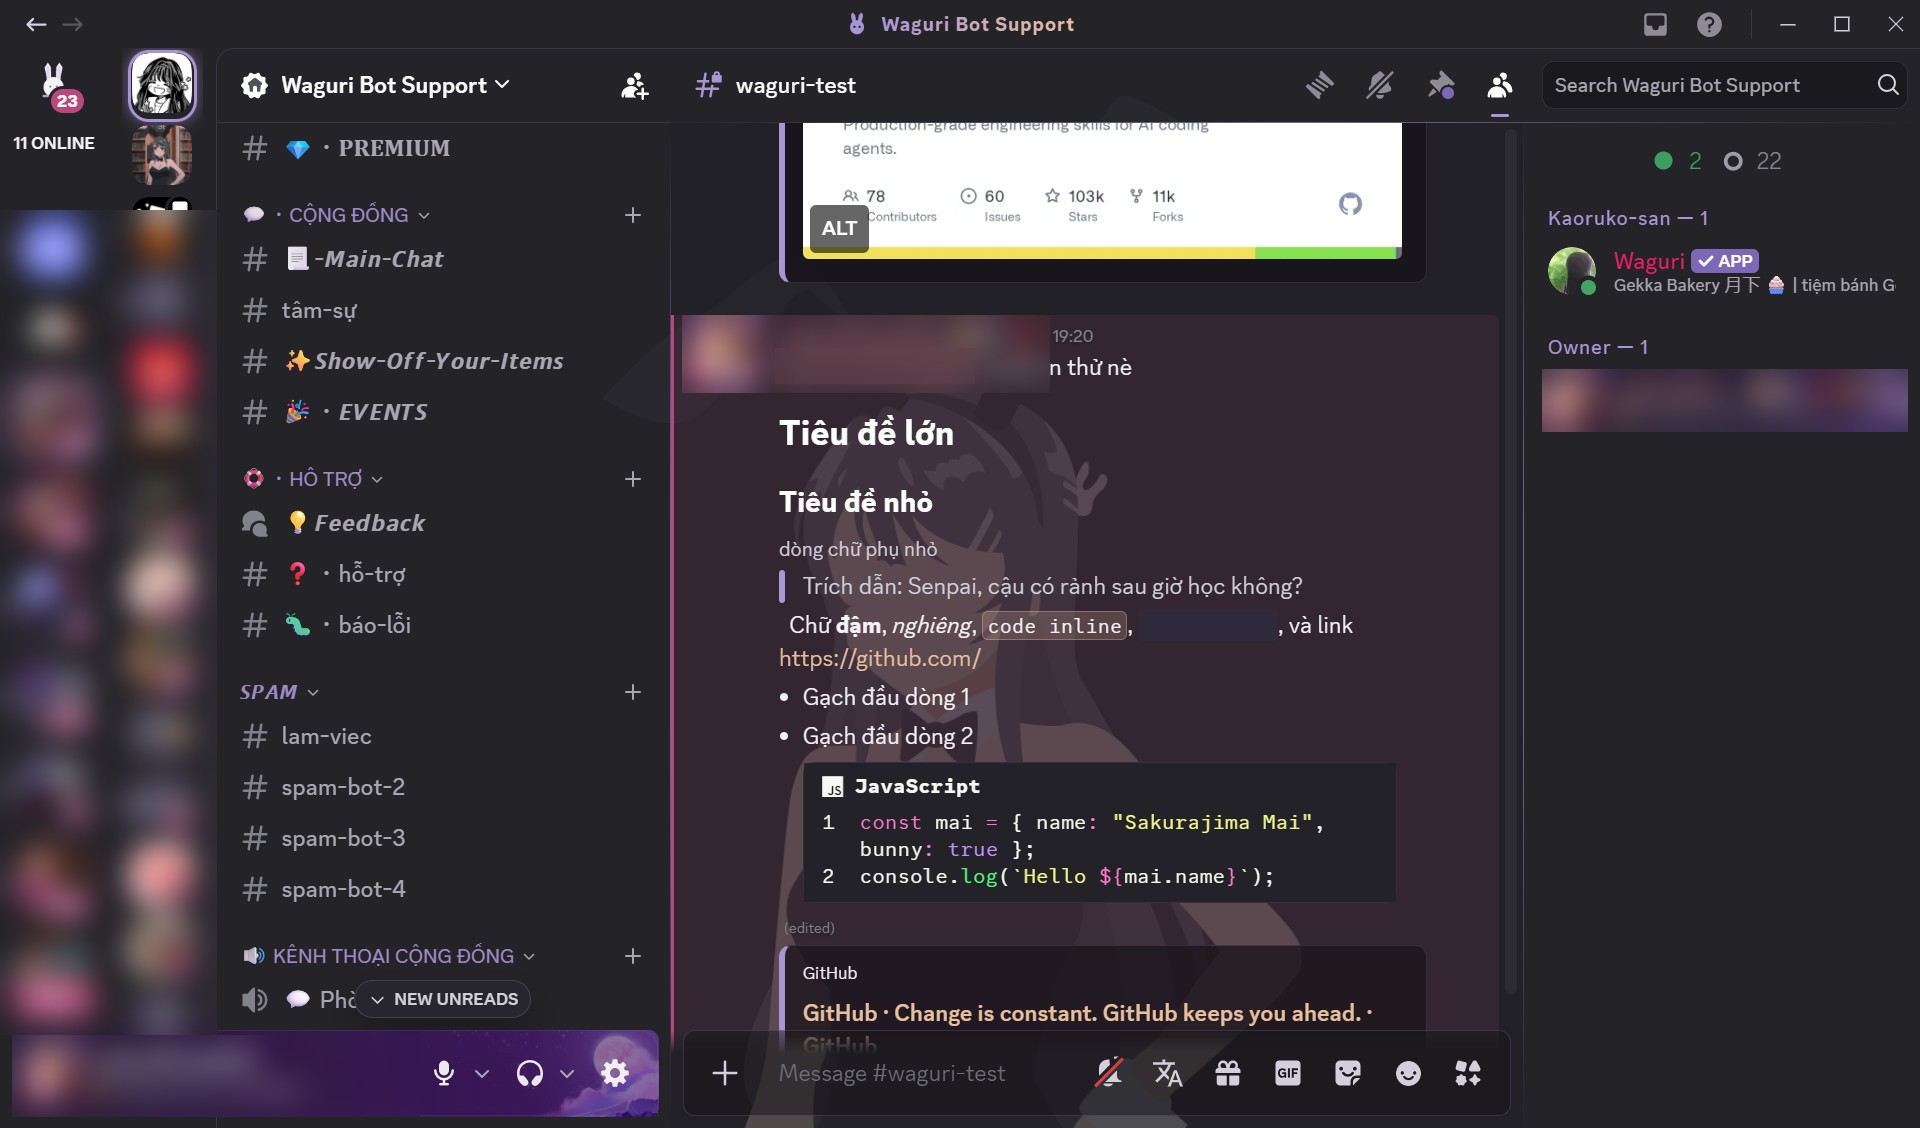
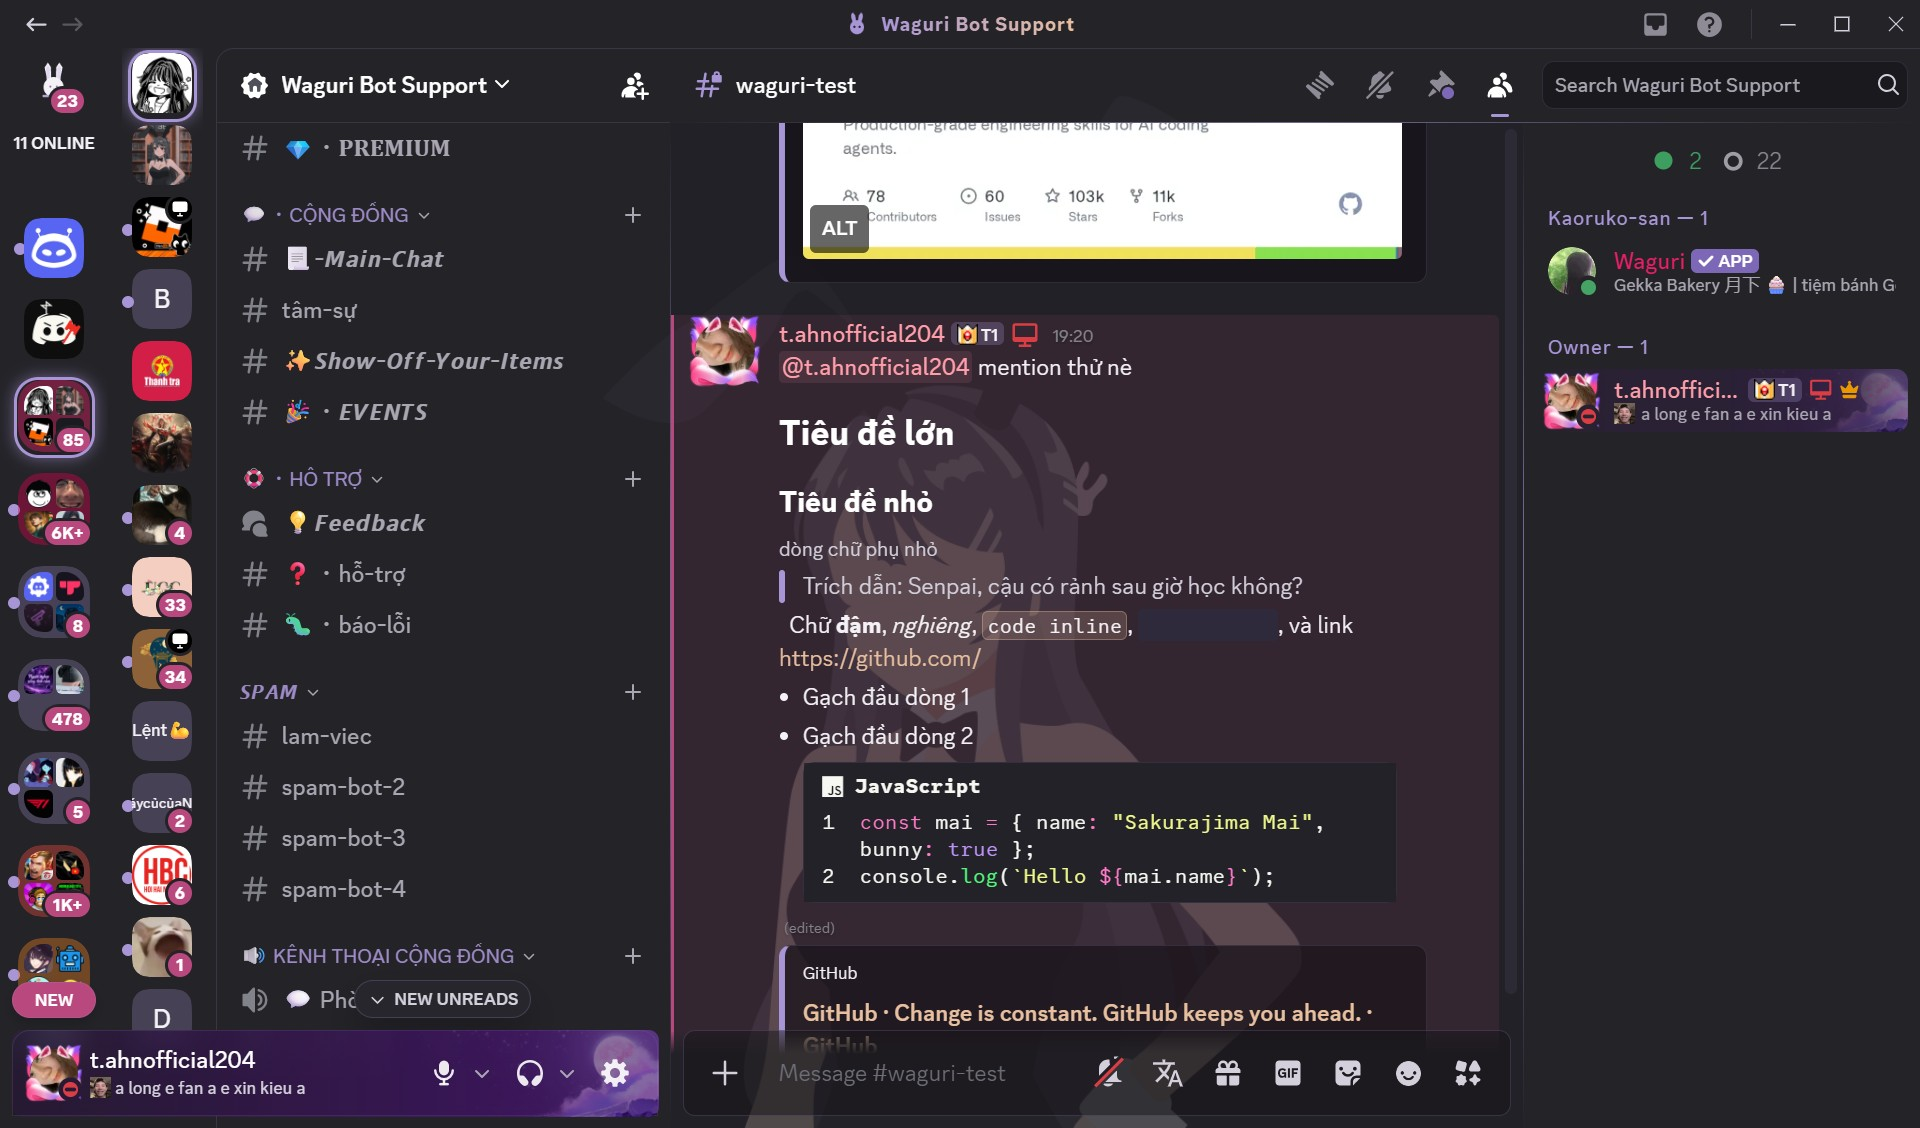
chore: pre-release cleanup and support contact
- Unblurred main preview screenshot
- Drop the unused 1.8 MB image/home-icon.gif (home icon is bunny-hairpin.png)
- Restore .gitignore to the upstream copy (local tool folders now live in
  .git/info/exclude), so every upstream-owned file is byte-identical again
- README (en/vi): BetterDiscord note and Support section (issues or Discord DM)

Changed region(s): [[0.0, 0.1862, 0.1562, 0.9929], [0.3438, 0.2793, 0.5625, 0.3723], [0.7812, 0.3103, 1.0, 0.4034]]

diff --git a/.github/README.md b/.github/README.md
@@ -63,6 +63,8 @@
 2. Open **User Settings → Themes → Open Themes Folder** (usually `%AppData%\BetterDiscord\themes`) and put the file there.
 3. Enable **Sakurajima Mai Theme**.
 
+> BetterDiscord uses the same file, but the theme is developed and tested on Vencord. If something looks off on BetterDiscord, please [report it](#support).
+
 > The theme always renders the dark Mai look, whichever Discord appearance you pick (Dark, Ash, Onyx, Light or a Nitro color theme), so nothing conflicts.
 
 ## Customization
@@ -179,12 +181,16 @@ Turning on **User Settings → Accessibility → Reduced Motion** in Discord (or
 - **Something looks broken after a Discord update:** open an [issue](https://github.com/takeisan24/Sakurajima-Mai-Discord-Theme/issues) with a screenshot.
 - **Problems with the server list or base layout:** these may come from the NotAnotherAnimeTheme base. Check its [issues](https://github.com/puckzxz/NotAnotherAnimeTheme/issues) or [support server](https://discord.gg/FdZhbjY).
 
+## Support
+
+Found a bug or need help? Open an [issue](https://github.com/takeisan24/Sakurajima-Mai-Discord-Theme/issues), or send a Discord DM to **t.ahnofficial204**. A screenshot and your client (Vencord, Vesktop or BetterDiscord) help a lot.
+
 ## Changelog
 
 <details>
 <summary>Version history</summary>
 
-- **3.9.0:** plugin switches (`--sm-role-mentions`, `--sm-codeblocks`), preview screenshots, plugin compatibility and performance guides
+- **3.9.0:** BetterDiscord note and Discord DM support contact; plugin switches (`--sm-role-mentions`, `--sm-codeblocks`), preview screenshots, plugin compatibility and performance guides
 - **3.8.2:** Onboarding verified; every translucent blurple tint remapped to lavender
 - **3.8.1:** voice call and Stage views on the Mai surface instead of pure black, lavender "Start the Stage" pulse
 - **3.8.0:** secondary screens verified live: Discovery, Quests, Shop, Nitro Home, Events, Channels & Roles, Server Guide, Members, Server Boosts, Server Settings
